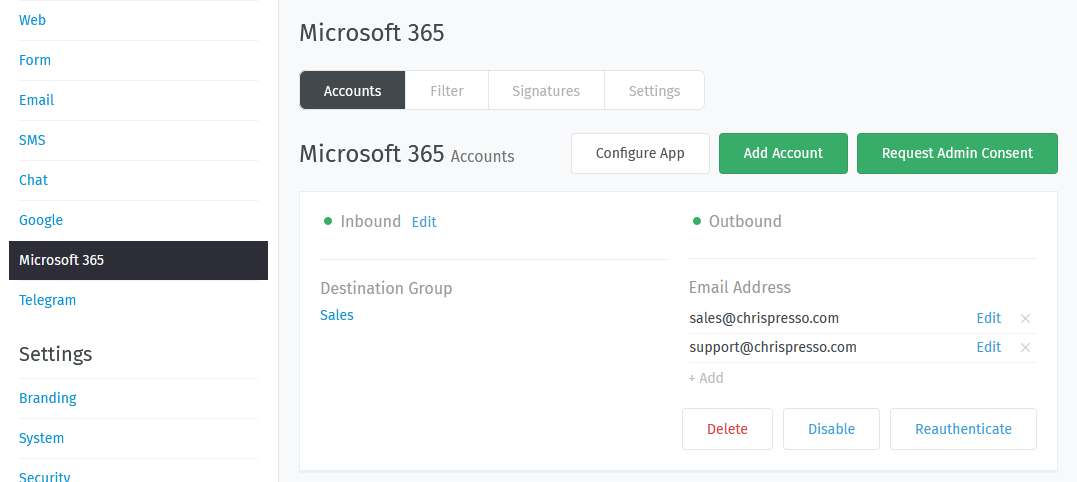
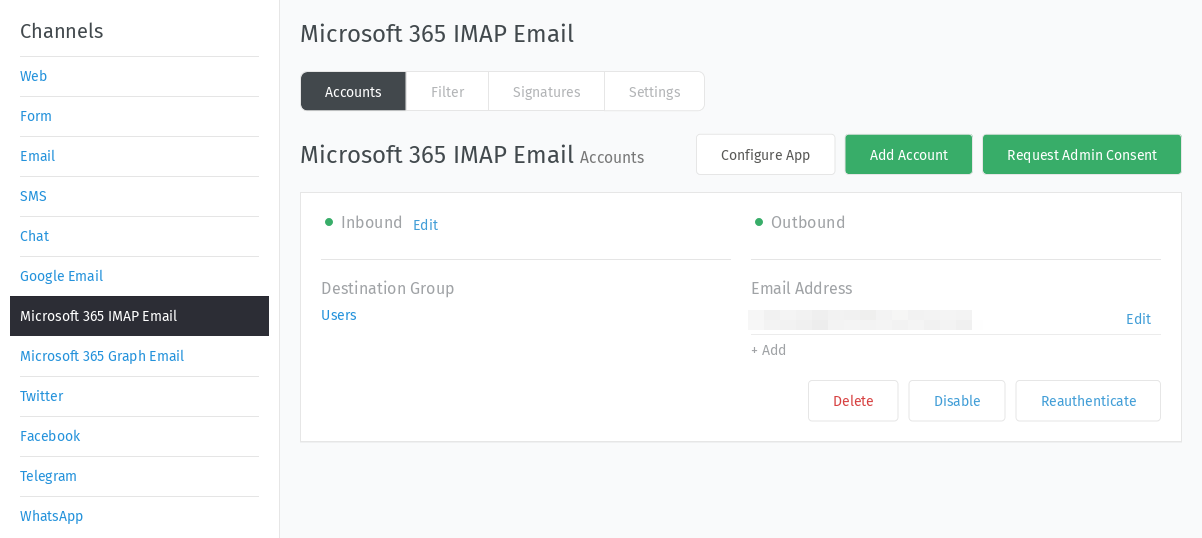
Replaced screenshot for IMAP; small tweaks

diff --git a/channels/microsoft365-graph/common-errors.rst b/channels/microsoft365-graph/common-errors.rst
@@ -2,29 +2,24 @@ Common errors
 =============
 
 Here you can find some common errors in M365 context. Also have a look at
-the general :doc:`M365 documentation </channels/microsoft365/index>` for the
-configuration.
+the general
+:doc:`M365 documentation </channels/microsoft365-graph/index>` for
+the configuration.
 
-Incorrect Client ID
--------------------
+MailboxNotEnabledForRESTAPI
+---------------------------
 
-JUST AN EXAMPLE, replace with error messages from app > assets > javascript > app > controllers > _channel > microsoft_graph...
+Did you verify that the user has access to the mailbox? Or consider removing
+this channel and switch to using a different mailbox type.
 
-**Error message:** AADSTS00016: Application with identifier
-'xxxxxxxx' was not found in the directory 'MSFT'. This can happen if the
-application has not been installed by the administrator of the tenant or
-consented to by any user in the tenant. You may have sent your authentication
-request to the wrong tenant.
+ErrorItemNotFound
+-----------------
 
-.. figure:: /images/channels/microsoft365/errors/wrong-id.png
-  :alt: Error message
-  :scale: 90%
-  :align: center
+Did you confirm that the user has delegation permissions for the mailbox? Or
+consider removing this channel and switch to using a different mailbox type.
 
-In this case, please compare whether the client ID created in Zammad
-matches that in Azure for the Azure App.
+ErrorInvalidUser
+----------------
 
-The Client ID can be found in Zammad under
-Settings > Channels > Microsoft 365 > App Configuration.
-See :doc:`here </channels/microsoft365/accounts>` how to find the client
-ID in Azure and where to copy it to in Zammad.
+Did you check the validity of the configured mailbox? Or consider removing this
+channel and switch to using a different mailbox type.

diff --git a/channels/microsoft365-graph/index.rst b/channels/microsoft365-graph/index.rst
@@ -11,7 +11,7 @@ Microsoft 365 Graph Email
    email-headers
    common-errors
 
-Connect a Microsoft 365 account via Graph API (formerly "Office 365") to Zammad.
+Connect a Microsoft 365 account (formerly "Office 365") via Graph API to Zammad.
 
 .. figure:: /images/channels/microsoft365-graph/panel.png
    :alt: Email settings panel

diff --git a/channels/microsoft365/index.rst b/channels/microsoft365/index.rst
@@ -11,7 +11,7 @@ Microsoft 365 IMAP Email
    email-headers
    common-errors
 
-Connect a Microsoft 365 account via IMAP (formerly "Office 365") to Zammad.
+Connect a Microsoft 365 account (formerly "Office 365") via IMAP to Zammad.
 
 .. figure:: /images/channels/microsoft365/panel.png
    :alt: Email settings panel
